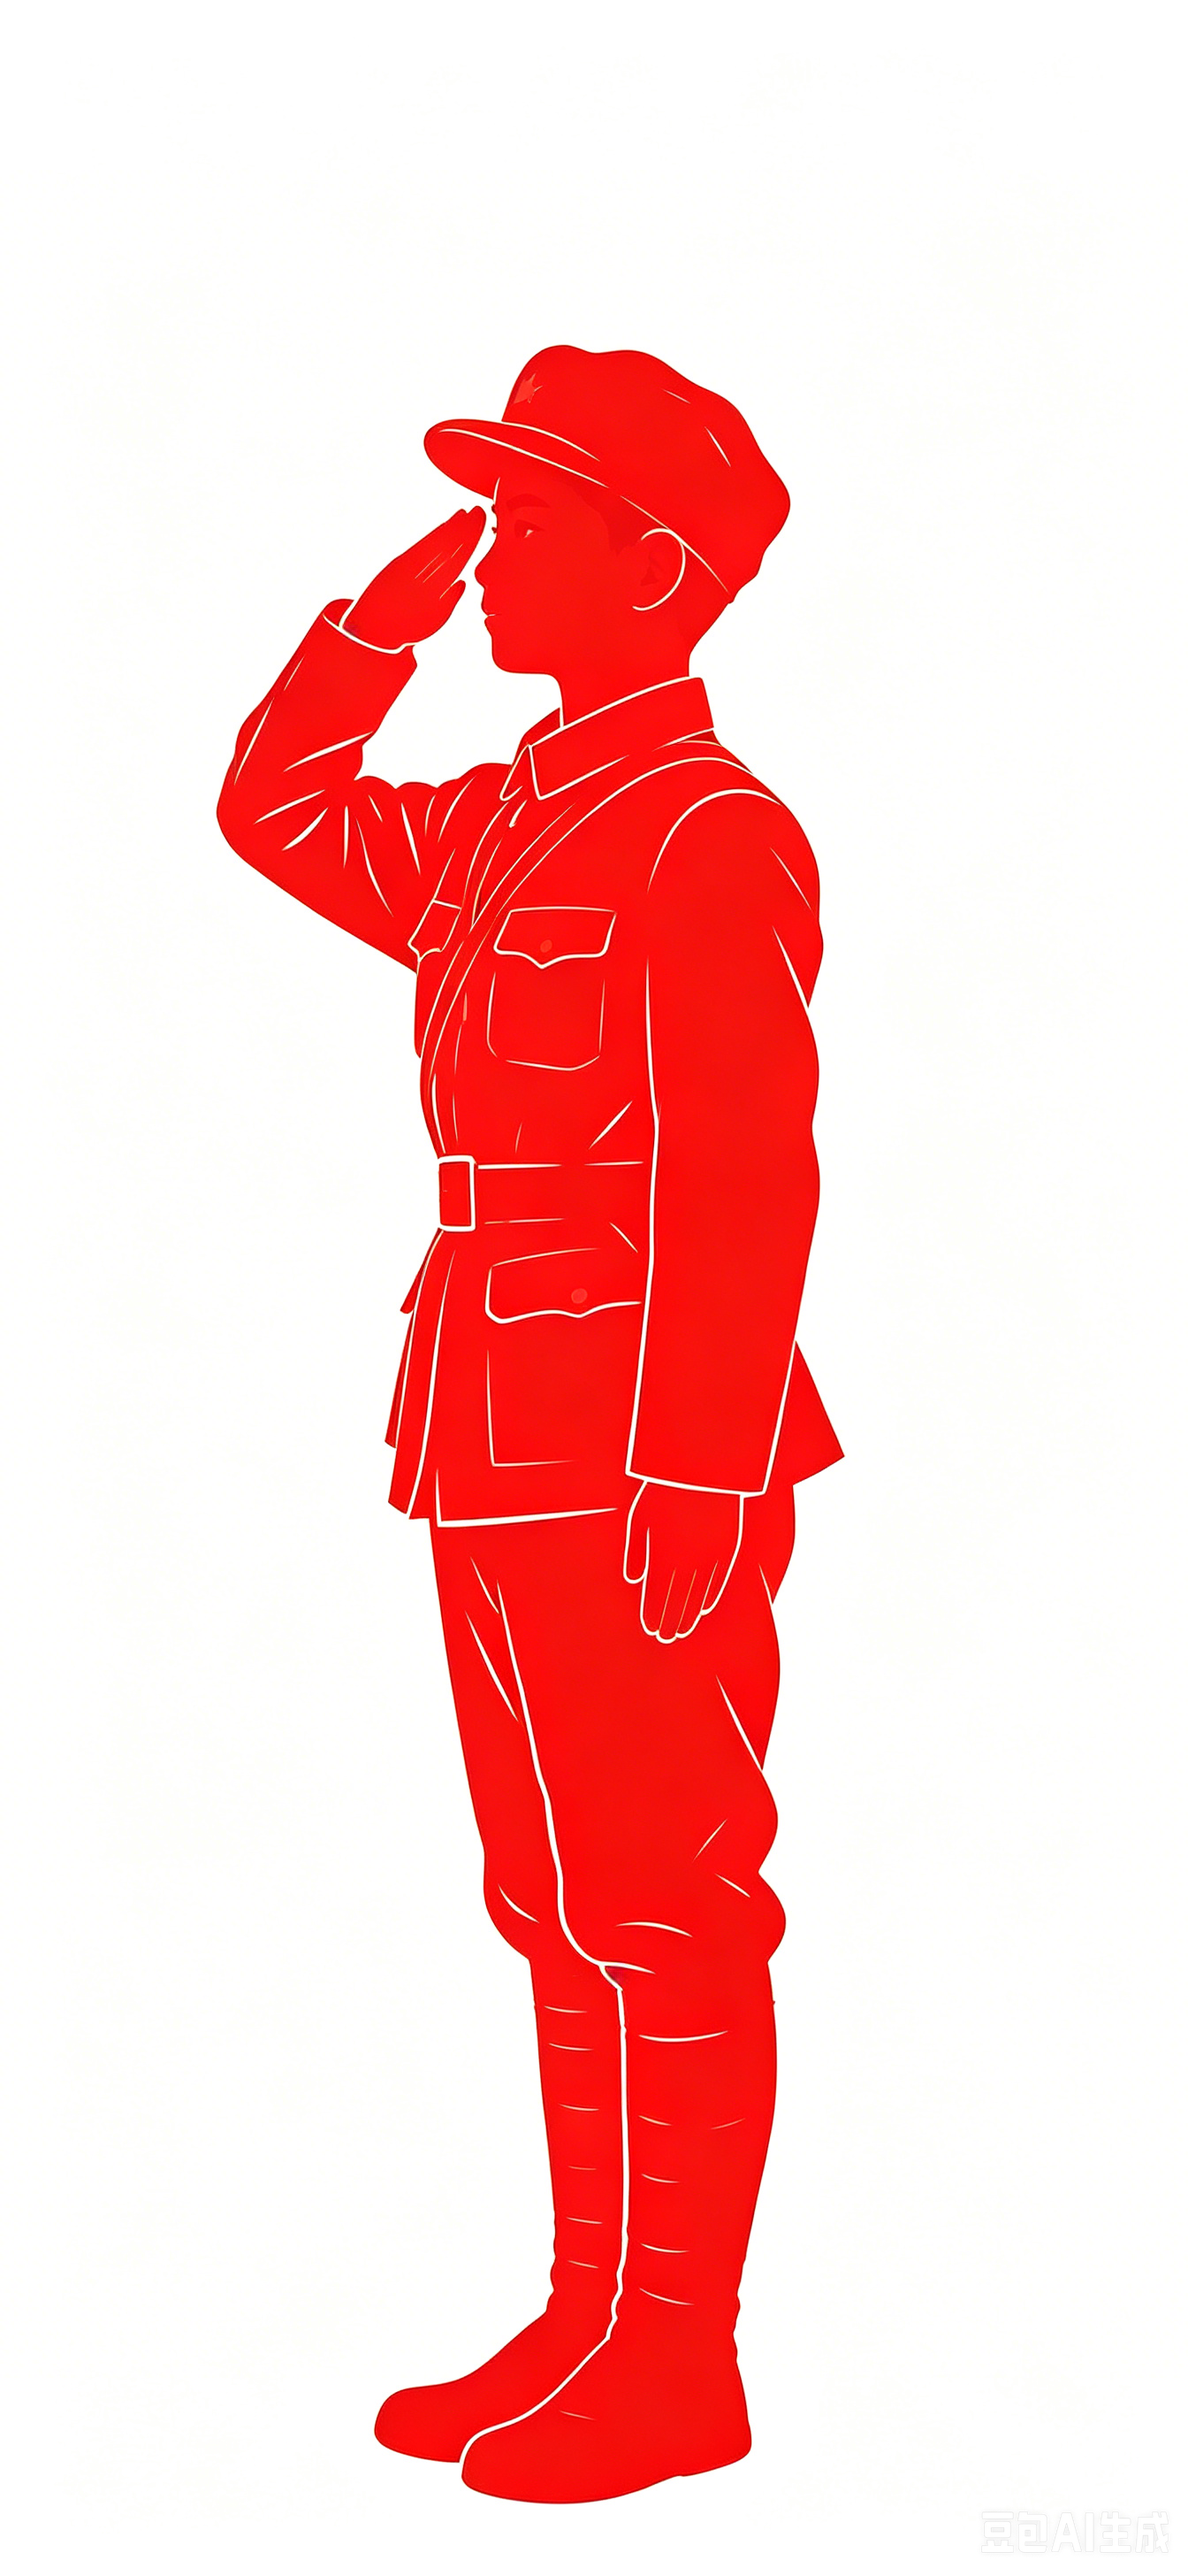
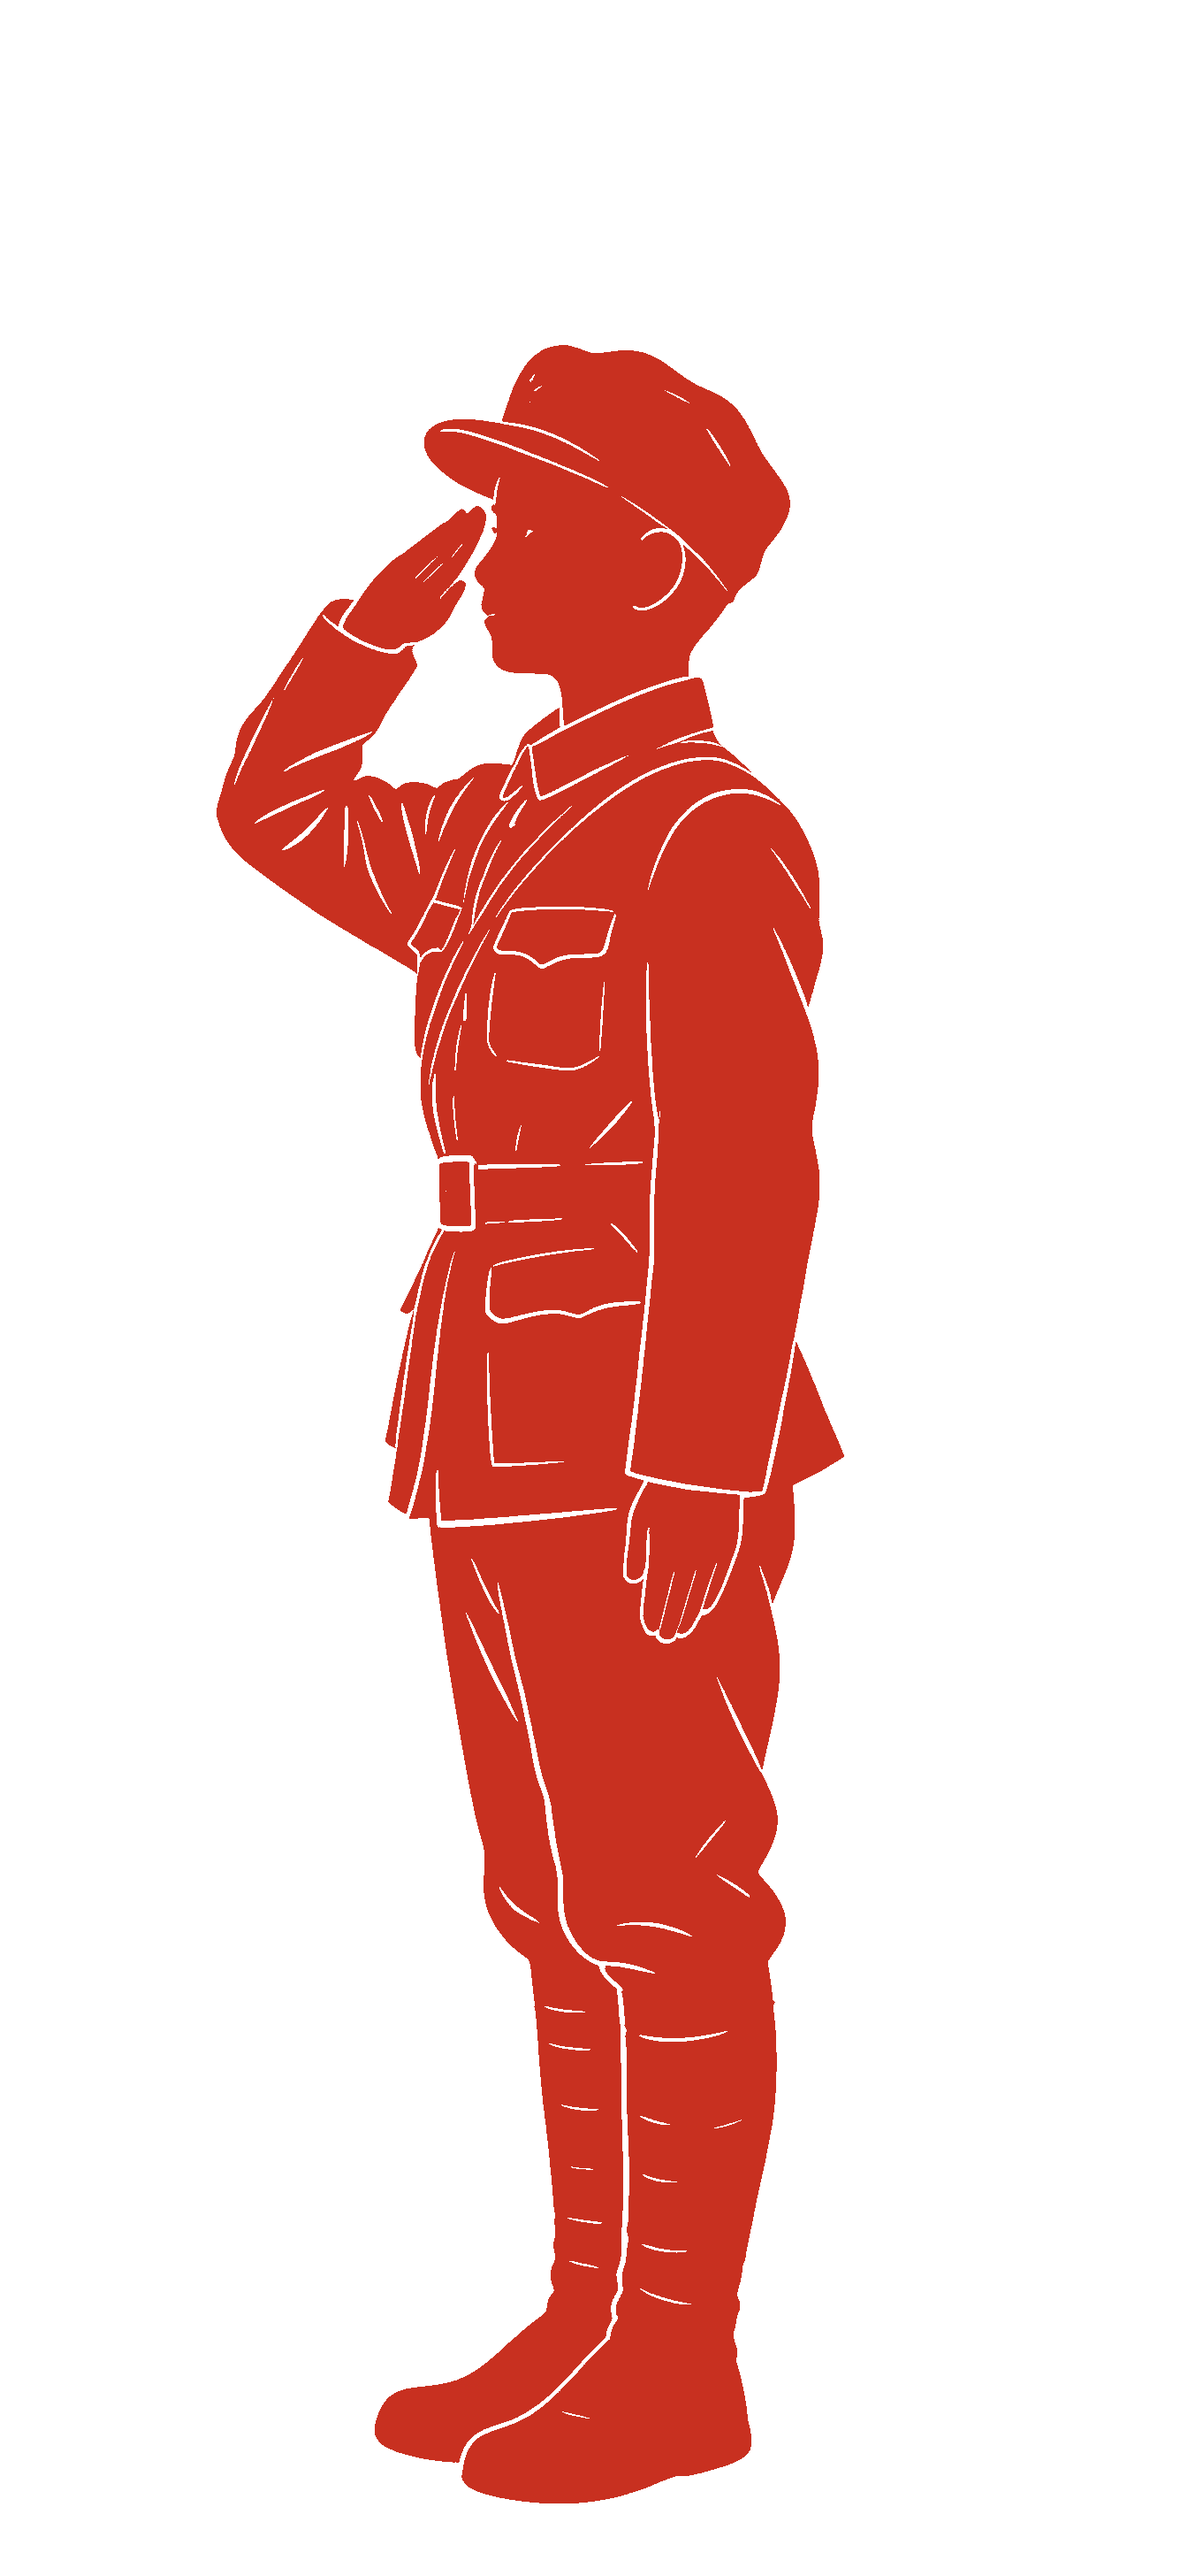
剪影图片处理：去除背景变透明，黑色剪影改为纯红色(#c83020)，替换原文件

Changed region(s): [[0.1875, 0.125, 0.7188, 0.9688]]

diff --git a/exhibition.html b/exhibition.html
@@ -1023,8 +1023,7 @@
 
         /* ===== 人物剪影 — 纯红，白底之上慢慢浮现 ===== */
         .hw-silhouette { position: fixed; pointer-events: none; z-index: 0; opacity: 0; animation: hwSilFadeIn 1.5s ease-out forwards; }
-        .hw-silhouette img { width: 100%; height: 100%; object-fit: contain; display: block;
-            filter: brightness(0) saturate(100%) invert(10%) sepia(79%) saturate(6300%) hue-rotate(353deg) brightness(92%) contrast(86%); }
+        .hw-silhouette img { width: 100%; height: 100%; object-fit: contain; display: block; }
         @keyframes hwSilFadeIn { from { opacity: 0; transform: translateY(12px); } to { opacity: 1; transform: translateY(0); } }
 
         /* 左侧 — 面向右（自然朝向） */
